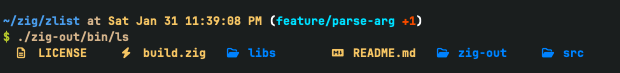
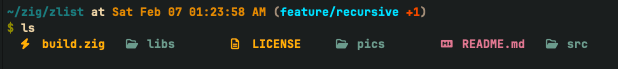
docs: Document recursive listing `-r` flag with examples

Changed region(s): [[0.0, 0.087, 0.7071, 0.8116], [0.5227, 0.5507, 0.9531, 0.8116]]

diff --git a/README.md b/README.md
@@ -22,6 +22,7 @@
 
 ![Preview1](pics/screenshot.jpg)
 ![Preview2](pics/screenshot2.jpg)
+![Preview3](pics/screenshot3.jpg)
 
 *(Make sure you have a [Nerd Font](https://www.nerdfonts.com/) installed in your terminal to see the icons!)*
 
@@ -60,6 +61,7 @@ ls [OPTIONS] [PATH]
 | `-l`, `--long` | Enable detailed view (permissions, size, date, user). |
 | `-a`, `--a` | Show hidden files (starting with `.`). |
 | `-s`, `--sort <mode>` | **0**: Name (A-Z) [Default]<br>**1**: Name Length (Shortest first) |
+| `-r`, `--recursive` | Recursively list subdirectories encountered. |
 | `-h`, `--help` | Print help message. |
 
 ### Examples
@@ -79,13 +81,18 @@ ls -la
 ls -s 1
 ```
 
+**Dig deep (Recursive listing):**
+```bash
+ls -r
+```
+
 ## 🛣 Roadmap
 
 *   [x] Basic file listing & recursion
 *   [x] Color output & Nerd Font icons
 *   [x] Detailed file stats
 *   [x] Sorting by name length
-*   [ ] Recursive directory traversal (`-R`)
+*   [x] Recursive directory traversal (`-r`)
 
 ## 🤝 Contributing
 
